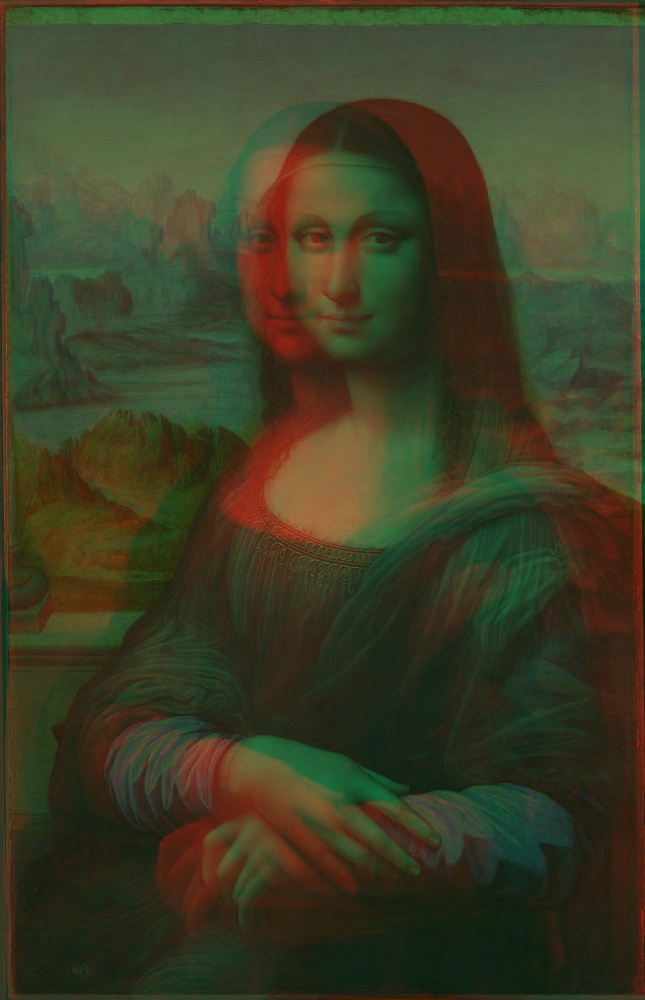
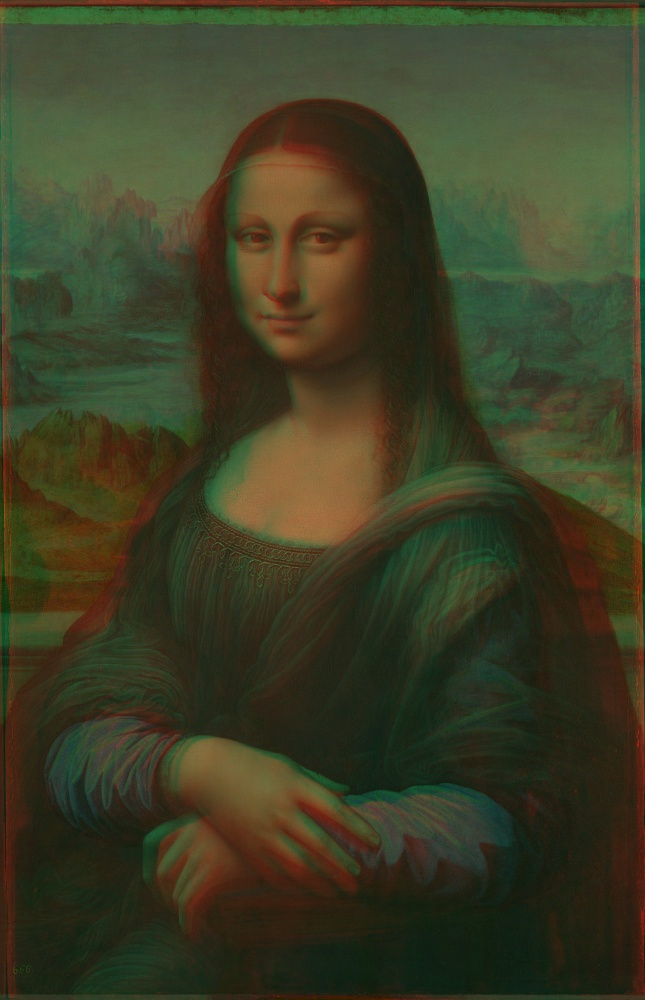
....

diff --git a/convert3d.py b/convert3d.py
@@ -80,7 +80,7 @@ def reshape(img1, img2, offset1, offset2):
 def main():
     left = cv2.imread('stylized_left.jpg', cv2.IMREAD_COLOR)
     right = cv2.imread('stylized_right.jpg', cv2.IMREAD_COLOR)
-    left_new, right_new = reshape(right, left, 0, 0)
+    left_new, right_new = reshape(right, left, 60, 0)
     img_3d = output_3d(left_new, right_new)
     cv2.imwrite('monalisa_3d.jpg', img_3d)
     show(img_3d)
